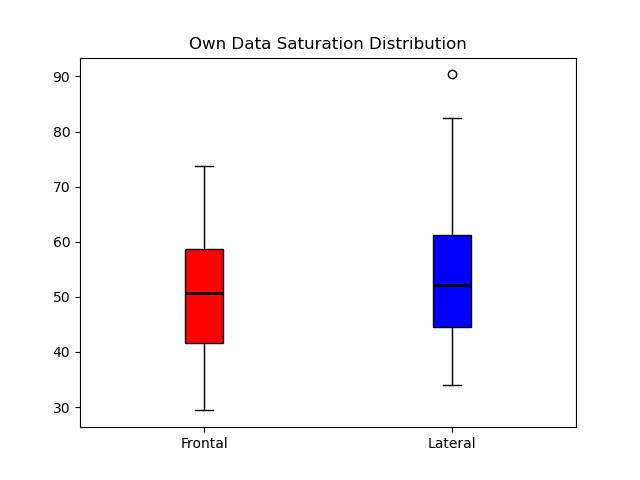
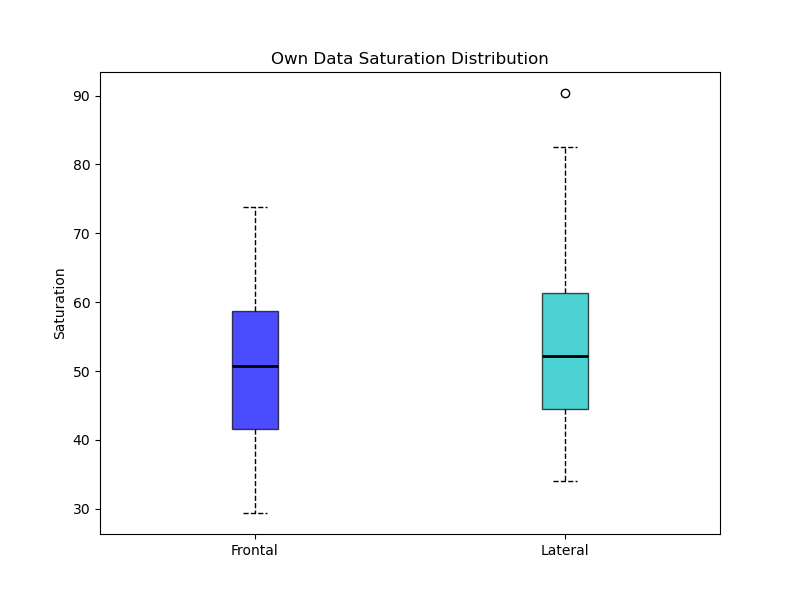
Elimine los plots de AUGMENTED porque eran muchos plots + boxplots mas lindos

diff --git a/DataExploration.py b/DataExploration.py
@@ -16,6 +16,7 @@ import cv2
 import glob
 import os
 from imutils import perspective
+from scipy.stats import gaussian_kde
 from matplotlib import pyplot as plt
 
 # OWN FUNCTIONS (MODIFY ACORDING TO YOUR LOCAL PATH)
@@ -86,10 +87,54 @@ def computeProperties (DataDir,Views):
 
 
 
-#### VISUALLY EXPLORE PROPERTIES DISTRIBUTION FOR EACH VIEWz
+#### VISUALLY EXPLORE PROPERTIES DISTRIBUTION FOR EACH VIEW
 # We now save plots to disk instead of showing them interactively.
-from scipy.stats import gaussian_kde
-import numpy as np
+def styled_boxplot(data_list, labels, box_colors, title, ylabel, save_path=None, show_plot=False):
+    """
+    Create a styled boxplot in the Insights style:
+    - Colored boxes (semi-transparent)
+    - Median line thick and black
+    - Whiskers & caps dashed
+    - Outliers colored like the box
+    """
+    plt.figure(figsize=(8,6))
+    bp = plt.boxplot(data_list, patch_artist=True, tick_labels=labels, showfliers=True)
+
+    # Style boxes
+    for patch, color in zip(bp['boxes'], box_colors):
+        patch.set_facecolor(color)
+        patch.set_alpha(0.7)
+
+    # Style medians
+    for median in bp['medians']:
+        median.set_color('black')
+        median.set_linewidth(2)
+
+    # Style whiskers and caps as dashed lines
+    for whisker in bp['whiskers']:
+        whisker.set_linestyle('--')
+        whisker.set_color('black')
+        whisker.set_linewidth(1)
+    for cap in bp['caps']:
+        cap.set_linestyle('--')
+        cap.set_color('black')
+        cap.set_linewidth(1)
+
+    # Style outliers
+    for i, flier in enumerate(bp['fliers']):
+        flier.set(marker='o', color=box_colors[i], alpha=1, markersize=6)
+
+    plt.title(title)
+    plt.ylabel(ylabel)
+
+    if save_path:
+        plt.savefig(save_path)
+        plt.close()
+    elif show_plot:
+        plt.show()
+    else:
+        plt.close()
+
 
 def Visualplots(dataset_name, Views, plateAngle, imageColor, 
                 imageIlluminance, imageSaturation, SHOW_SEPARATE=False, save_dir=PLOTS_DIR):
@@ -130,17 +175,17 @@ def Visualplots(dataset_name, Views, plateAngle, imageColor,
     else:
         plot_hist_with_line(imageColor, "Color Distribution", f"{dataset_name}_Color_Combined.png", "Hue")
 
-    # Boxplot (unchanged)
-    plt.figure()
+    # Boxplot
     x=[imageColor[v] for v in Views]
-    bpC = plt.boxplot(x, patch_artist=True, tick_labels=Views)
-    for patch, color in zip(bpC['boxes'], co):
-        patch.set_facecolor(color)
-    for median in bpC['medians']:
-        median.set(color='black', linewidth=2)
-    plt.title(f'{dataset_name} Color Distribution')
-    plt.savefig(os.path.join(save_dir, f"{dataset_name}_Color_Boxplot.png"))
-    plt.close()
+    styled_boxplot(
+        data_list=x,
+        labels=Views,
+        box_colors=co,
+        title=f'{dataset_name} Color Distribution',
+        ylabel='Hue',
+        save_path=os.path.join(save_dir, f"{dataset_name}_Color_Boxplot.png"),
+        show_plot=SHOW_SEPARATE
+    )
 
     # -------------------------------------------------------------
     # Saturation
@@ -155,16 +200,16 @@ def Visualplots(dataset_name, Views, plateAngle, imageColor,
         plot_hist_with_line(imageSaturation, "Saturation Distribution", f"{dataset_name}_Saturation_Combined.png", "Saturation")
 
     # Boxplot
-    plt.figure()
     x=[imageSaturation[v] for v in Views]
-    bpS = plt.boxplot(x, patch_artist=True, tick_labels=Views)
-    for patch, color in zip(bpS['boxes'], co):
-        patch.set_facecolor(color)
-    for median in bpS['medians']:
-        median.set(color='black', linewidth=2)
-    plt.title(f'{dataset_name} Saturation Distribution')
-    plt.savefig(os.path.join(save_dir, f"{dataset_name}_Saturation_Boxplot.png"))
-    plt.close()
+    styled_boxplot(
+        data_list=x,
+        labels=Views,
+        box_colors=co,
+        title=f'{dataset_name} Saturation Distribution',
+        ylabel='Saturation',
+        save_path=os.path.join(save_dir, f"{dataset_name}_Saturation_Boxplot.png"),
+        show_plot=SHOW_SEPARATE
+    )
 
     # -------------------------------------------------------------
     # Brightness
@@ -179,16 +224,16 @@ def Visualplots(dataset_name, Views, plateAngle, imageColor,
         plot_hist_with_line(imageIlluminance, "Brightness Distribution", f"{dataset_name}_Brightness_Combined.png", "Brightness (V)")
 
     # Boxplot
-    plt.figure()
     x=[imageIlluminance[v] for v in Views]
-    bpB = plt.boxplot(x, patch_artist=True, tick_labels=Views)
-    for patch, color in zip(bpB['boxes'], co):
-        patch.set_facecolor(color)
-    for median in bpB['medians']:
-        median.set(color='black', linewidth=2)
-    plt.title(f'{dataset_name} Brightness Distribution')
-    plt.savefig(os.path.join(save_dir, f"{dataset_name}_Brightness_Boxplot.png"))
-    plt.close()
+    styled_boxplot(
+        data_list=x,
+        labels=Views,
+        box_colors=co,
+        title=f'{dataset_name} Brightness Distribution',
+        ylabel='Brightness (V)',
+        save_path=os.path.join(save_dir, f"{dataset_name}_Brightness_Boxplot.png"),
+        show_plot=SHOW_SEPARATE
+    )
 
     # -------------------------------------------------------------
     # Plate Angle / Viewpoint
@@ -203,16 +248,17 @@ def Visualplots(dataset_name, Views, plateAngle, imageColor,
         plot_hist_with_line(plateAngle, "View Point Distribution", f"{dataset_name}_ViewPoint_Combined.png", "Angle (degrees)")
 
     # Boxplot
-    plt.figure()
     x=[plateAngle[v] for v in Views]
-    bpV = plt.boxplot(x, patch_artist=True, tick_labels=Views)
-    for patch, color in zip(bpV['boxes'], co):
-        patch.set_facecolor(color)
-    for median in bpV['medians']:
-        median.set(color='black', linewidth=2)
-    plt.title(f'{dataset_name} View Point Distribution')
-    plt.savefig(os.path.join(save_dir, f"{dataset_name}_ViewPoint_Boxplot.png"))
-    plt.close()
+    styled_boxplot(
+        data_list=x,
+        labels=Views,
+        box_colors=co,
+        title=f'{dataset_name} View Point Distribution',
+        ylabel='Angle (degrees)',
+        save_path=os.path.join(save_dir, f"{dataset_name}_ViewPoint_Boxplot.png"),
+        show_plot=SHOW_SEPARATE
+    )
+
 
 
 # With this functions, we are going to translate the Hue values to be interpretable for humans 
@@ -345,20 +391,20 @@ def main():
     if PLOT:
        Visualplots('Own Data', Views, O_plateAngle, O_imageColor, O_imageIlluminance, O_imageSaturation)
     
-    Augmented_DataDir=r'data/Patentes'
-    Views_A=['FrontalAugmented','LateralAugmented']
-    A_plateArea, A_plateAngle, A_imageColor, A_imageIlluminance, A_imageSaturation = computeProperties(Augmented_DataDir, Views_A)
-    if PLOT:
-       Visualplots('Augmented Data', Views_A, A_plateAngle, A_imageColor, A_imageIlluminance, A_imageSaturation)
+    #Augmented_DataDir=r'data/Patentes'
+    #Views_A=['FrontalAugmented','LateralAugmented']
+    #A_plateArea, A_plateAngle, A_imageColor, A_imageIlluminance, A_imageSaturation = computeProperties(Augmented_DataDir, Views_A)
+    #if PLOT:
+    #   Visualplots('Augmented Data', Views_A, A_plateAngle, A_imageColor, A_imageIlluminance, A_imageSaturation)
 
     # Interpreting what colors have the cars of our data set...
     summarize_colors(R_imageColor, R_imageSaturation, R_imageIlluminance, Views, "Real Data")
     summarize_colors(O_imageColor, O_imageSaturation, O_imageIlluminance, Views, "Own Data")
-    summarize_colors(A_imageColor, A_imageSaturation, A_imageIlluminance, Views_A, "Augmented Data")
+    #summarize_colors(A_imageColor, A_imageSaturation, A_imageIlluminance, Views_A, "Augmented Data")
 
     # Compare frontal and lateral views across datasets
-    datasets = [R_plateAngle, O_plateAngle, A_plateAngle]
-    dataset_names = ["Real Data", "Own Data", "Augmented Data"]
+    datasets = [R_plateAngle, O_plateAngle]
+    dataset_names = ["Real Data", "Own Data"]
     views_to_compare = ["Frontal", "Lateral"]  # For augmented, adjust names if needed
     compare_plate_angles(datasets, views_to_compare, dataset_names)
 
